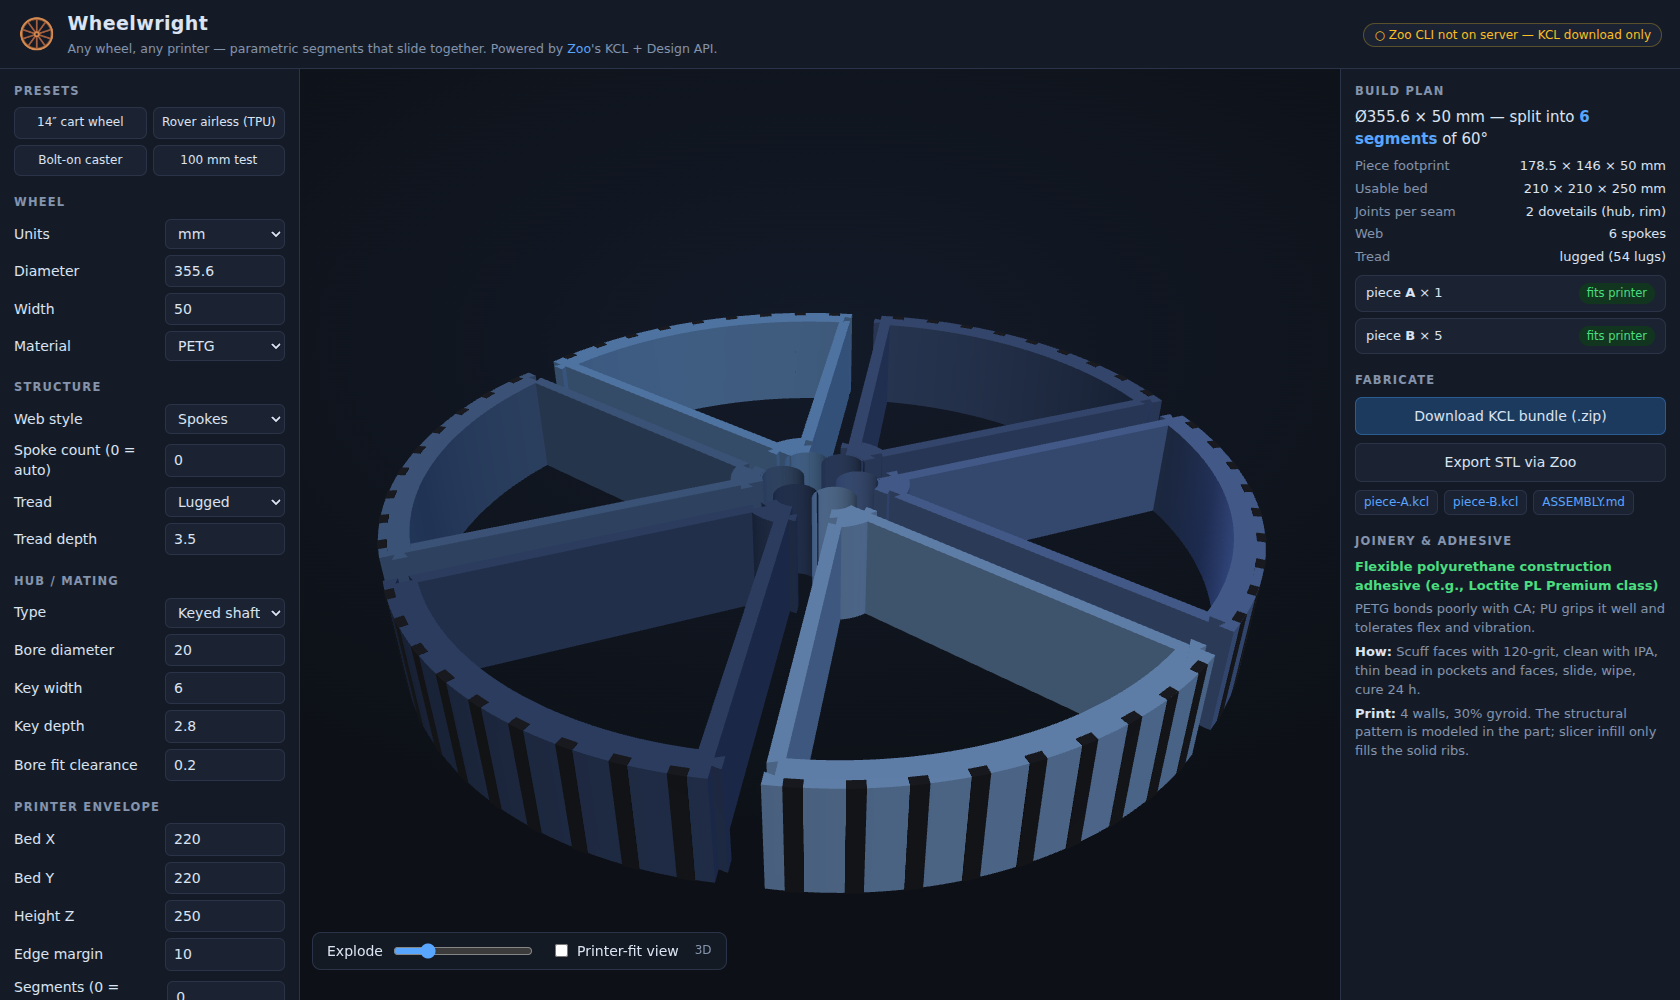
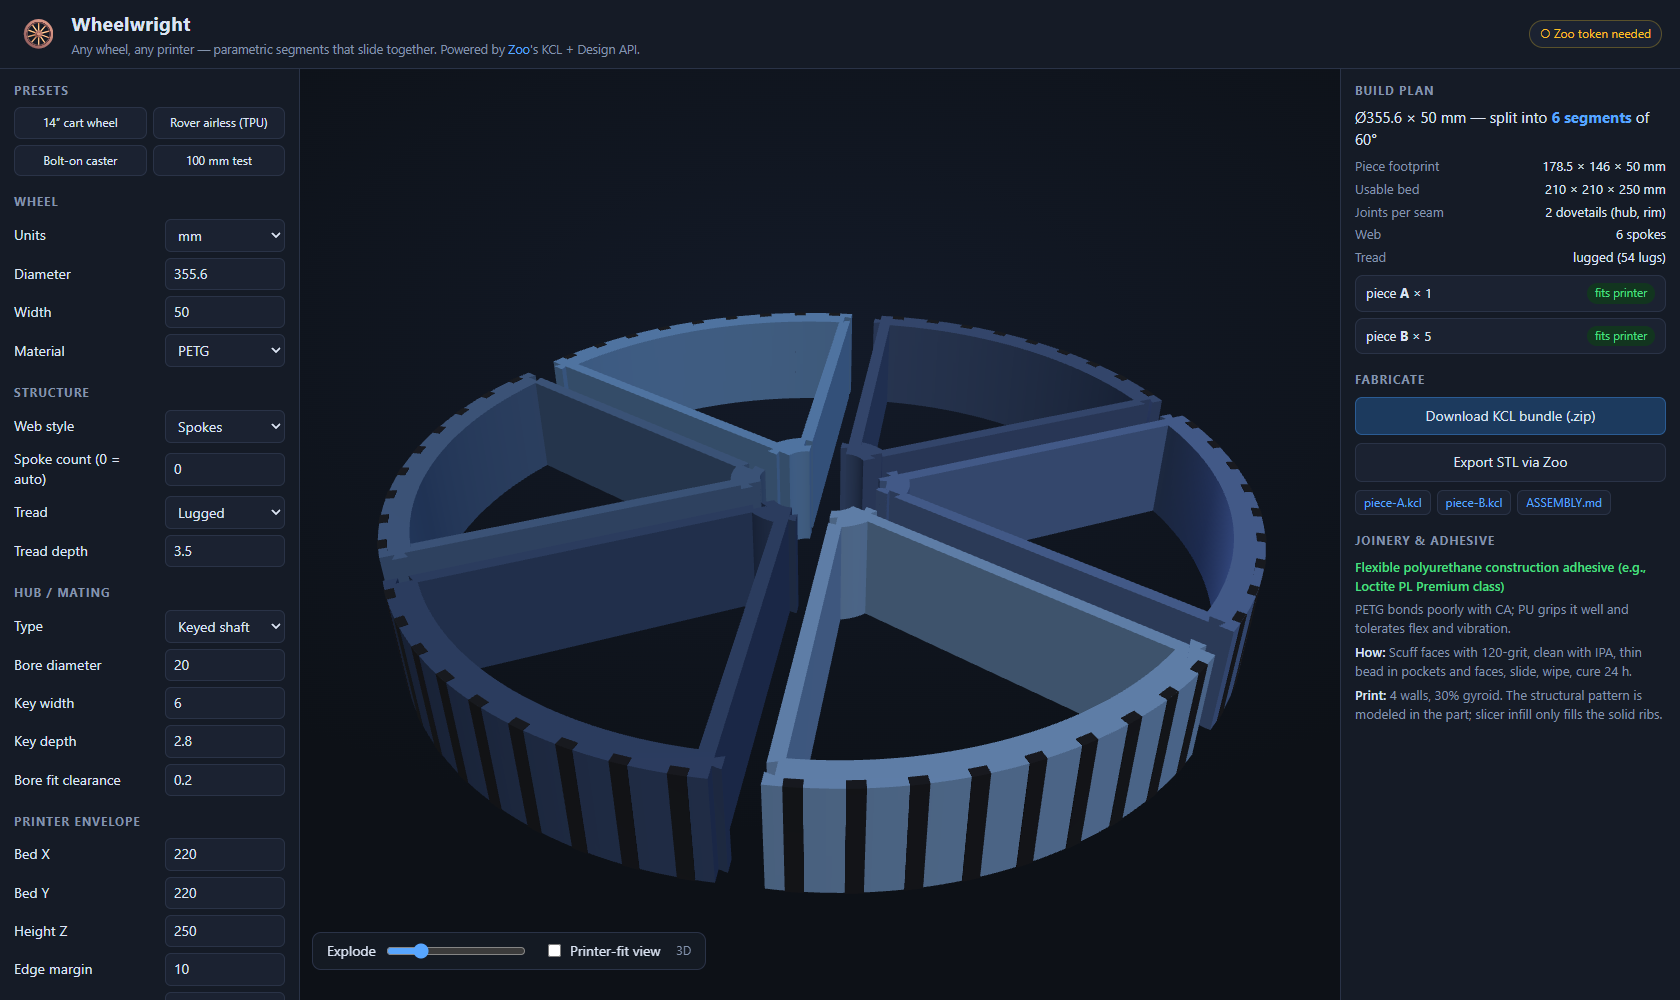
README: re-shoot the screenshots against the current geometry
Every screenshot dated from the first commit, so all three showed the
phantom thin-walled cylinders at each piece tip that 356346a removed
when the preview started rendering the true carved profile.

Re-rendered the cart, rover and printer-fit shots from the running app
at the same size, camera and configs as before, and added a fourth: a
bolt-on caster at Ø240 (large enough that it actually segments) under
"Why the pieces come out identical". It covers the two fixes that had
no picture at all — the hex-lattice honeycomb from e7a3c1e and the
bolt holes phase-rotated clear of the seams from 49eab5a.

Stale prose found while verifying the rest of the file:

- the suite is 40 tests, not 21
- the KCL sample's e1 end point and blank region point no longer
  matched generator output (the arc, circle and subtract lines still
  did)
- src/lib/env.js was missing from the repo-layout block

The API table, adhesive guidance and every roadmap item still match the
code.

diff --git a/README.md b/README.md
@@ -9,7 +9,7 @@ Want a 14″ airless tire for your cart project but only own an Ender-sized prin
 wheel you want and the envelope you have; Wheelwright hands you the pieces, the print settings,
 and the glue-up instructions.
 
-![Wheelwright — 14in cart wheel exploded into 6 dovetailed segments](docs/screenshot-cart.png)
+![Wheelwright — 14in cart wheel exploded into 6 dovetailed segments, spoked web and lugged tread](docs/screenshot-cart.png)
 
 ## What it does
 
@@ -29,7 +29,7 @@ and the glue-up instructions.
 
 | Airless TPU rover wheel (flex-web, hex bore) | Printer-fit check against your envelope |
 |---|---|
-| ![Rover airless wheel](docs/screenshot-rover.png) | ![Printer fit view](docs/screenshot-fit.png) |
+| ![Rover airless wheel — six identical 60° segments with curved flex-web slots](docs/screenshot-rover.png) | ![Printer fit view — one segment print-oriented inside the usable build volume](docs/screenshot-fit.png) |
 
 ## Quickstart
 
@@ -57,7 +57,7 @@ download the KCL bundle and run `zoo kcl export --output-format=stl piece-A.kcl 
 export from Design Studio.
 
 ```sh
-npm test           # 21 unit tests: chunking math, joints, dedupe, KCL well-formedness
+npm test           # 40 unit tests: chunking math, joints, dedupe, piece profiles, KCL well-formedness
 npm run validate:kcl   # regenerates a config matrix; round-trips through Zoo's engine when a token is set
 ```
 
@@ -110,7 +110,14 @@ yet"). Bolt holes are still subtracted per piece.
 Feature-aware deduplication: the planner computes which segment windows intersect the keyway /
 D-flat / bolt holes and hashes each piece's canonical feature set. The segment-count solver
 prefers (within fit constraints) counts that match the hub's rotational symmetry — e.g. hex
-bores like 2/3/6/12 segments — so most wheels are "print one file N times".
+bores like 2/3/6/12 segments — so most wheels are "print one file N times". Bolt circles are
+phase-rotated to sit centred between the seams for the chosen N, so no piece ever carries a
+half-open hole.
+
+![Bolt-circle caster, honeycomb web — four identical 90° segments, bolt holes clear of every seam](docs/screenshot-caster.png)
+
+Honeycomb cells sit on a true hex lattice aligned to the piece bisector, so neighbouring cells
+keep a uniform wall and never merge — within a piece or across a seam.
 
 ### Adhesive guidance (the flexible-glue question)
 
@@ -136,12 +143,12 @@ for the engine:
 @settings(defaultLengthUnit = mm, kclVersion = 1.0)
 
 outlineSk = sketch(on = XY) {
-  e1 = line(start = [9.2, 0], end = [166.03, 0])
+  e1 = line(start = [9.2, 0], end = [16.346, 0])
   ...
   e10 = arc(start = [177.8, 0], end = [88.9, 153.9793], center = [0, 0])
   ...
 }
-blank = extrude(region(point = [98.68, 49.34], sketch = outlineSk), length = 50)
+blank = extrude(region(point = [86.9983, 50.2285], sketch = outlineSk), length = 50)
 
 cut1Sk = sketch(on = offsetPlane(XY, offset = -1)) {
   c1 = circle(start = [10.2, 0], center = [0, 0])
@@ -177,6 +184,7 @@ src/lib/wheel.js        the planner (pure, shared browser/server)
 src/lib/kclgen.js       KCL emitter + assembly guide generator
 src/lib/zoo.js          zoo CLI wrapper for KCL → STL
 src/lib/zip.js          dependency-free ZIP writer
+src/lib/env.js          dependency-free .env / .env.local loader
 public/                 UI (vanilla JS + vendored three.js, 2D canvas fallback)
 scripts/setup-zoo.mjs   downloads the Zoo CLI for your platform into ./bin
 scripts/validate-kcl.js engine round-trip validation for a config matrix
